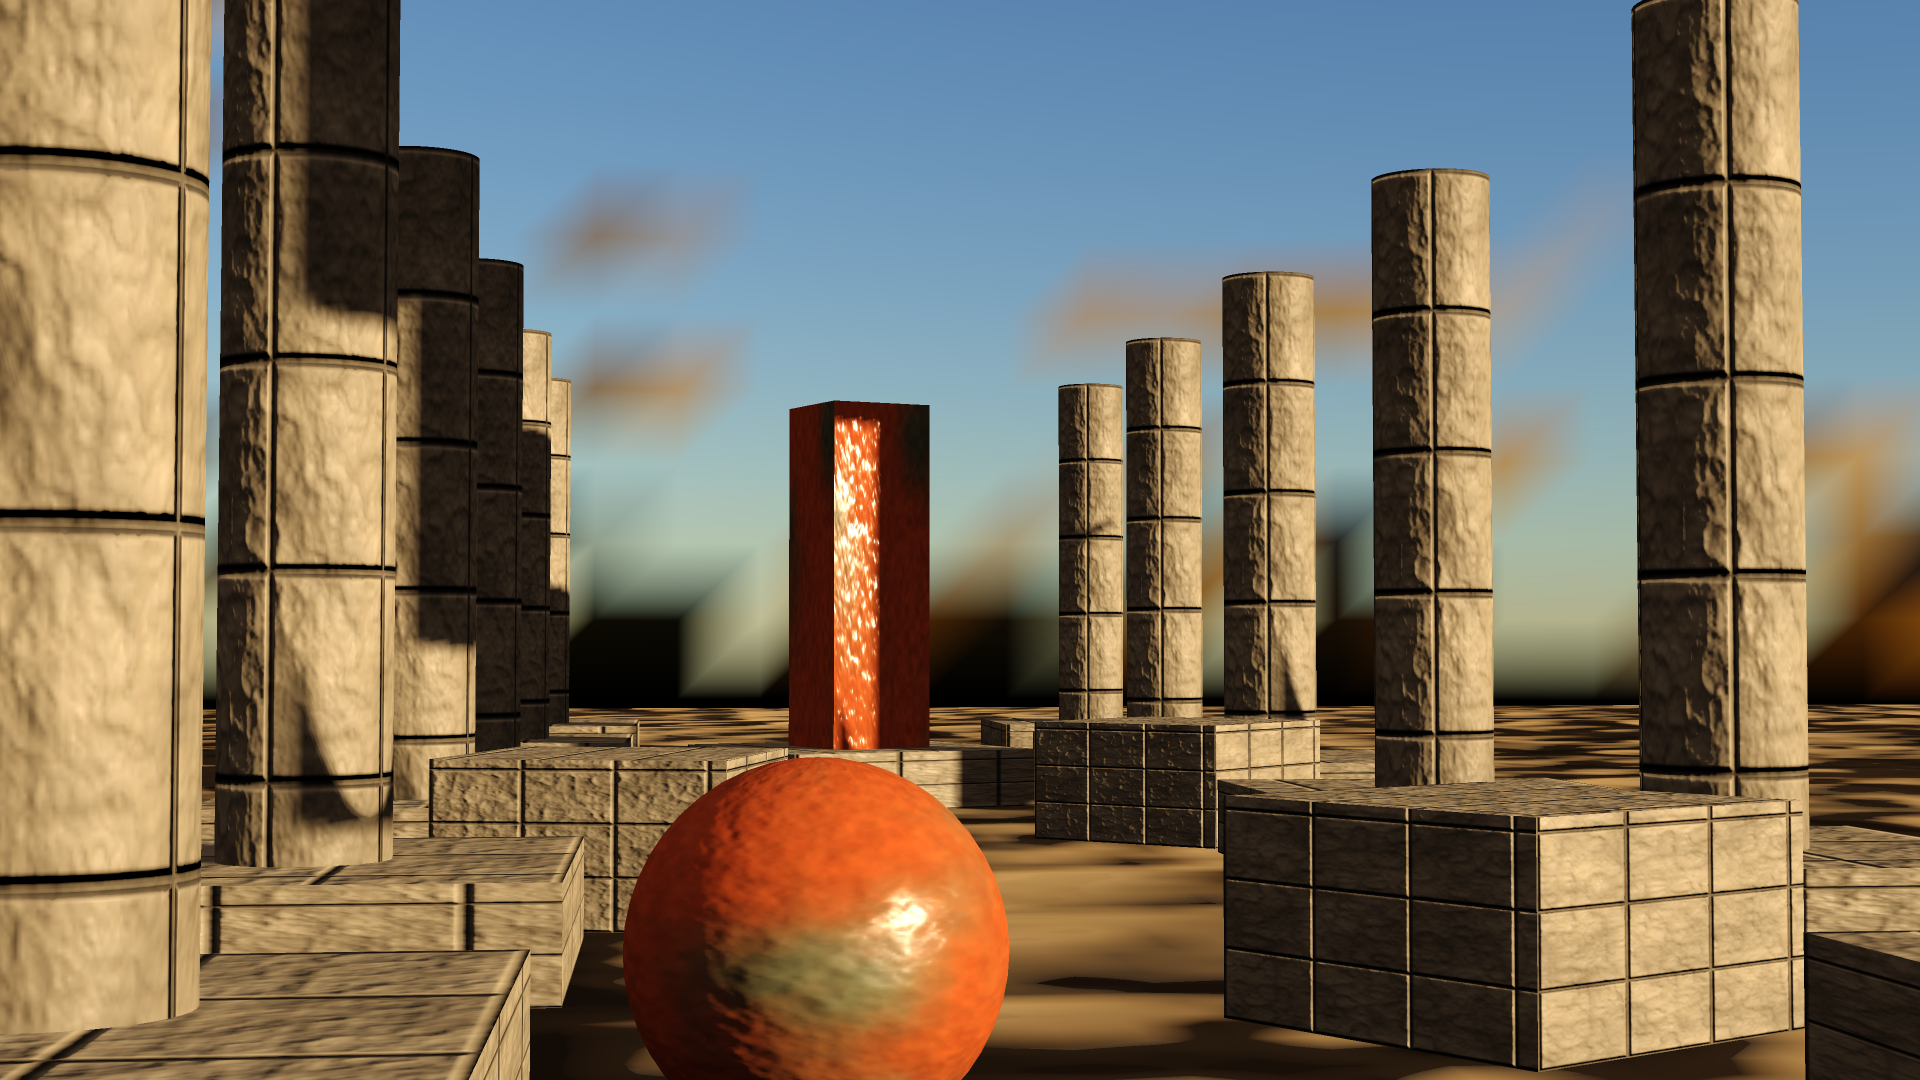
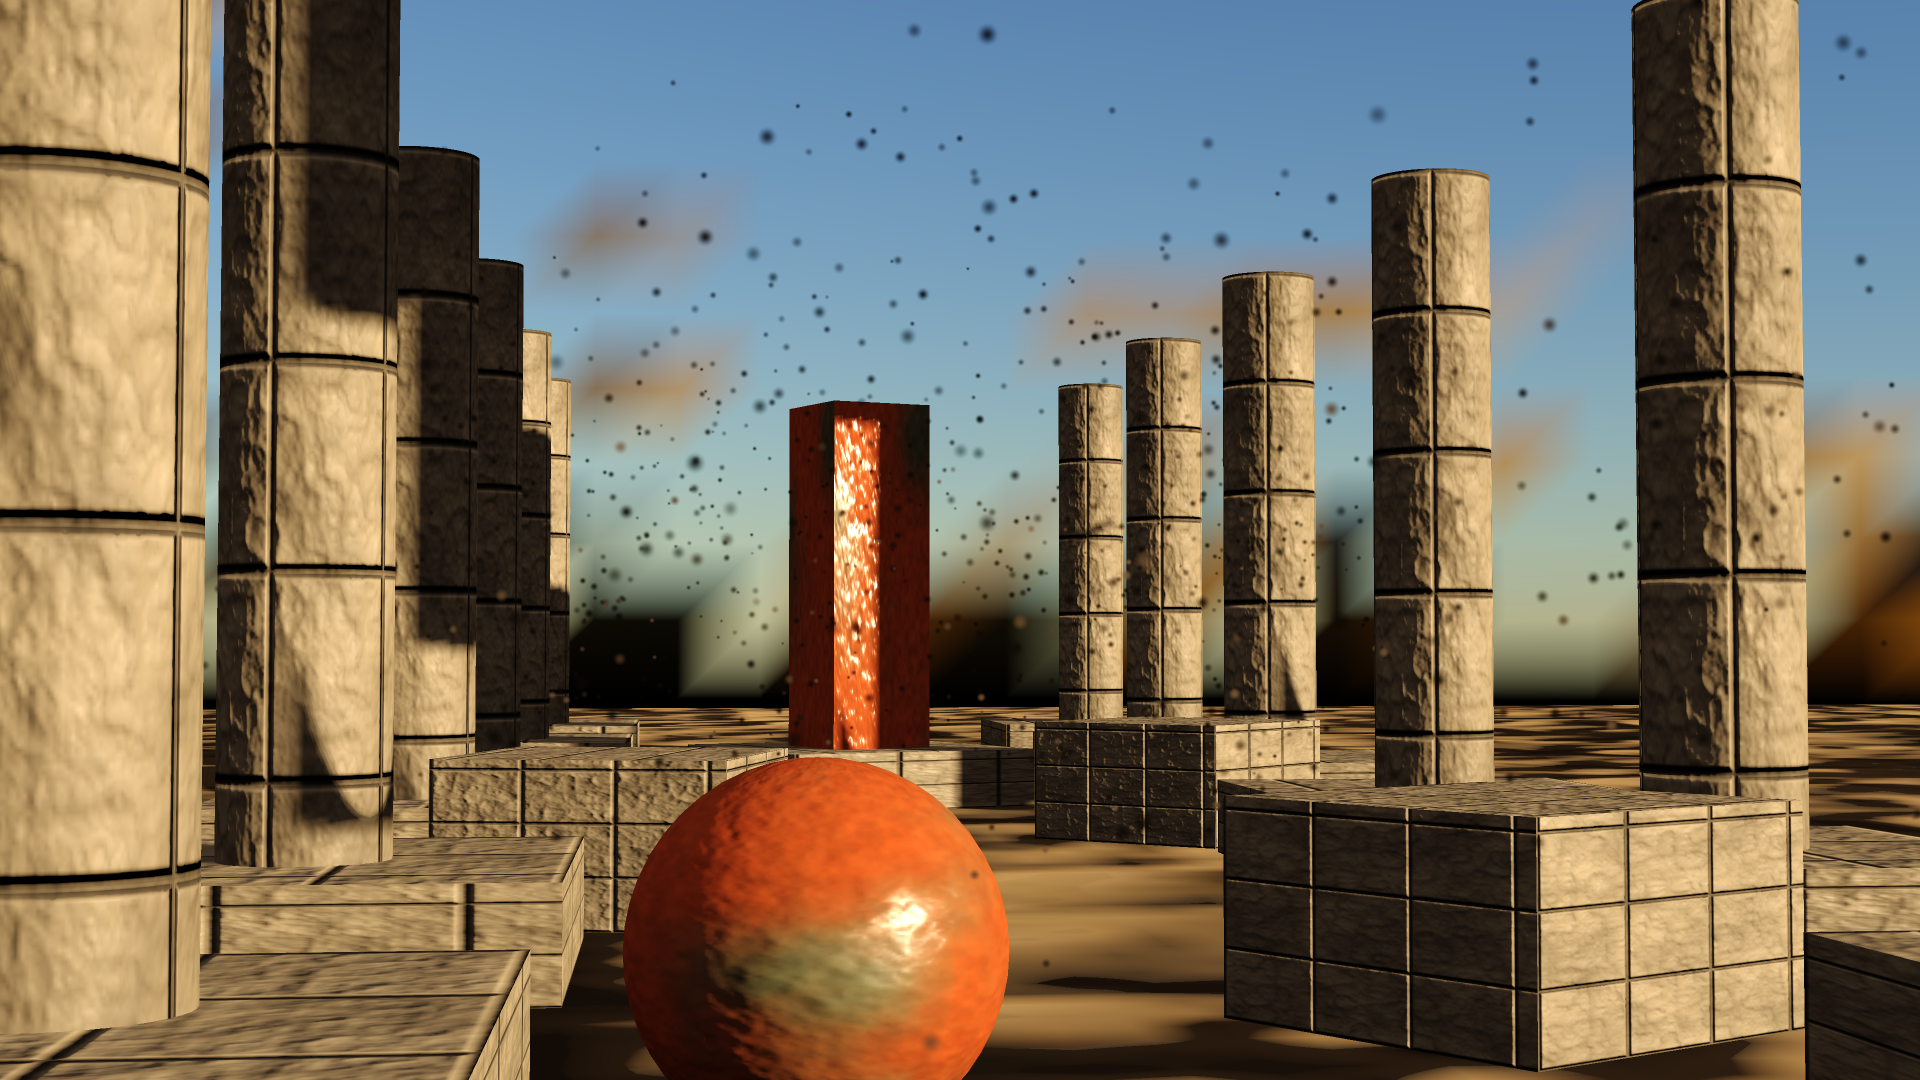
WIP snapshot: 16 file(s) in flight
Automatic interval snapshot taken while M11.c is being worked by a workflow, so
that an interrupted connection costs at most one interval. Touched: docs/design/beauty-shot.md docs/design/images/m11c-beauty-shot-linear.png docs/design/images/m11c-beauty-shot.manifest docs/design/images/m11c-beauty-shot.png docs/design/images/virtual-geometry-shaded.png docs/design/virtual-geometry.md

Claude-Session: https://claude.ai/code/session_01BvoHZ8J6AQ7ZmHGdYnuGC5

diff --git a/tests/render/test_virtual_geometry_shaded.cpp b/tests/render/test_virtual_geometry_shaded.cpp
@@ -36,12 +36,14 @@
 // than two 8-bit steps, and a texel may differ AT ALL only where the reference itself has a
 // high-contrast four-neighbour. `differing_off_edge` must be zero.
 //
-// IT WAS MEASURED RATHER THAN CHOSEN. This frame was rendered twice on the same machine, in two
-// separate processes, and compared: the two runs are BIT-IDENTICAL — 0 of 57,600 texels differ,
-// maximum channel delta 0. That is the property `render.frames` already asserts about the M3
-// artefact for the same reason, and it is why the tolerance above is headroom for another
-// implementation rather than headroom for this one. A tolerance chosen as a round number, without
-// measuring what actually moves, is a tolerance that hides the regression it was sized for.
+// IT WAS MEASURED RATHER THAN CHOSEN. This frame was rendered THREE times on this machine, in
+// three separate processes — the run that wrote the reference and two that compared against it —
+// and all three are BIT-IDENTICAL: 0 of 57,600 texels differ, maximum channel delta 0. The
+// reference's own derived edge budget is 8,521 texels and NONE of them was needed. That is the
+// property `render.frames` already asserts about the M3 artefact for the same reason, and it is
+// why the tolerance above is headroom for another implementation rather than for this one. A
+// tolerance chosen as a round number, without measuring what actually moves, is a tolerance that
+// hides the regression it was sized for.
 //
 // ================================================================================================
 // THE PICTURE IS OF TWO ROWS, AND THE SECOND CASE IS WHY THE FIRST IS EVIDENCE ABOUT BOTH
@@ -51,6 +53,40 @@
 // page boundaries, a page per receiver picked from its projected texel density, a physical page
 // cache that allocates and evicts, pages rasterised once from the scene's level-0 clusters, and
 // every lookup walked through the fallback chain. `shade.h` carries that argument in full.
+//
+// ================================================================================================
+// PROVED RED BY BREAKING THE SUBJECT, TWICE — ONCE PER ROW
+// ================================================================================================
+//
+// A golden-image case that has only ever been seen green is a golden-image case nobody has shown
+// can fail, and breaking the COMPARISON or the reference's PATH proves only that a file is read.
+// Both mutations below break the thing the picture is OF. Measured against `build/m11c-final` on
+// an RTX 5060; each was restored afterwards and the suite re-run green.
+//
+//   `virtual-geometry` — delete `out.clusters[index].child_count = out.groups[from].member_count;`
+//   from `Finaliser::emit_hierarchy()` in `src/rendering/virtual_geometry/src/build.cpp`. Every
+//   cooked cluster then reports zero children, `clusterTooCoarse(...) && cluster.childCount > 0`
+//   in `vg_traversal.slang` is never true, and THE HIERARCHY STOPS DESCENDING: the device draws
+//   each instance's coarsest cluster and nothing under it. The cook still succeeds and validation
+//   is still clean. Clusters decoded 3,324 -> 246, coverage 57,600 -> 55,322, and 46,257 of 57,600
+//   texels move — 80.31% of the frame, 38,878 of them off any high-contrast edge, worst channel
+//   delta 188 of 255. Three assertions of the first case go red.
+//
+//   `virtual-shadows` — delete `entry.state = PageState::Resident;` from
+//   `ShadowPageCache::record_render` in `src/rendering/shadows/src/cache.cpp`. A page is then
+//   rasterised and never MARKED resident, so all 27,095 sun-facing lookups fall through the
+//   fallback chain: shadowed pixels 24,649 -> 0, and 24,578 of 57,600 texels move — 42.67%,
+//   20,089 of them off-edge, worst channel delta 163. Four assertions go red, and the first of
+//   them is `shade_report.shadowed > 0`, which is the counter that exists so a shadow cannot
+//   vanish quietly.
+//
+// This is the criterion's own declared mutation — `tools/roadmap/milestones/m11c.toml`,
+// `[criterion.falsifies]` under `virtual-geometry-image` — so the prover re-runs the first of the
+// two rather than trusting this comment.
+//
+// ================================================================================================
+// THE PICTURE IS OF TWO ROWS, AND THE SECOND CASE IS WHY THE FIRST IS EVIDENCE ABOUT BOTH (CONT.)
+// ================================================================================================
 //
 // So the second case starves the page cache to a single slot. Every receiver is then refused a
 // page, the chain falls all the way to `Unshadowed`, and the frame CHANGES — measurably, and the

diff --git a/tests/render/test_sky_times_of_day.cpp b/tests/render/test_sky_times_of_day.cpp
@@ -25,8 +25,8 @@
 // reddening a long path at dawn, the ozone layer holding the zenith blue after the sun has gone,
 // multiple scattering carrying a third of the horizon at noon and none of it at midnight. One
 // still frame is consistent with a painted gradient. Four at +0.62, +61.44, -5.64 and -14.56
-// degrees of sun elevation are not — the numbers `solve_celestial()` answered and every run prints
-// — and each case here asserts that its frame matches ITS OWN reference and
+// degrees of sun elevation are not. Those are the numbers `solve_celestial()` answered and every
+// run of this suite prints them. Each case asserts that its frame matches ITS OWN reference and
 // matches NONE OF THE OTHER THREE — so a renderer that had quietly stopped responding to the sun
 // would produce four frames that agree, and agreement is what these cases fail on.
 //
@@ -117,6 +117,15 @@
 //   * THE FOUR ARE THE SAME PICTURE. Each case compares its frame against the other three
 //     references and requires a large mean absolute difference, which is the "response to sun
 //     elevation" claim made falsifiable rather than described.
+//
+// AND A FOURTH THIS SUITE CANNOT REFUSE, SAID OUT LOUD BECAUSE IT IS THE CRITERION'S TO CATCH.
+// Every suite under tests/render/ SKIPS rather than fails with no device — deliberately, because
+// most continuous-integration machines have no GPU and a suite that failed there is a suite
+// somebody disables (device.h). Measured on this host with `VK_DRIVER_FILES=/dev/null`: this suite
+// prints "no Vulkan device on this machine" four times, reports 5 passed over ZERO ASSERTIONS and
+// exits 0. An exit code therefore cannot tell a picture from an absent one, so `m11c:sky-as-an-
+// image` runs the suite with `-V` and requires the four `sun elevation` lines — written only after
+// a frame has been composed and read back — to be in the output.
 //
 // ================================================================================================
 // THE MUTATIONS THIS SUITE WAS PROVED RED BY

diff --git a/samples/12-beauty/shot.cpp b/samples/12-beauty/shot.cpp
@@ -132,8 +132,6 @@ void read_instance(Shot& shot, std::string_view& rest) {
     shot.instances.push_back(instance);
 }
 
-}  // namespace
-
 /// Does the scene's camera and grade agree with `embers.h`'s copy of them?
 ///
 /// A TOLERANCE OF ONE PART IN TEN THOUSAND rather than equality: both sides are decimal literals
@@ -168,6 +166,8 @@ void read_instance(Shot& shot, std::string_view& rest) {
               "`render.vfx` can photograph the air from where this shot sees it. Move both.";
     return false;
 }
+
+}  // namespace
 
 Expected<Shot, Error> Shot::read(const char* path, std::string& problem) {
     Allocator& memory = system_allocator(MemoryDomain::Assets);
@@ -265,8 +265,8 @@ Expected<Shot, Error> Shot::read(const char* path, std::string& problem) {
     // check that makes them one number: move the camera in the scene file and the capture refuses,
     // naming the header to move it in as well.
     if (!camera_matches_the_air(shot, problem)) {
-        return make_unexpected(Error{ErrorCode::InvalidArgument, "camera disagrees with embers.h",
-                                     0});
+        return make_unexpected(
+            Error{ErrorCode::InvalidArgument, "camera disagrees with embers.h", 0});
     }
     return shot;
 }

diff --git a/samples/12-beauty/main.cpp b/samples/12-beauty/main.cpp
@@ -180,6 +180,8 @@ void print_report(const Shot& shot, const ShotReport& report) {
                 static_cast<double>(report.sky_irradiance.z), report.sky_ms);
     std::printf("frame         %u passes declared, %u post stages, %ux supersampled\n",
                 report.frame_passes, report.post_stages, report.supersample);
+    std::printf("air           %u mote(s) in %u draw(s), %u dropped\n", report.particles,
+                report.particle_draws, report.particles_dropped);
     std::printf("cost          build %.1f ms, submit %.2f ms\n", report.build_ms, report.submit_ms);
     std::printf("validation    %u error(s)\n", report.validation_errors);
 }

diff --git a/samples/12-beauty/stage.cpp b/samples/12-beauty/stage.cpp
@@ -1865,8 +1865,8 @@ Status Stage::create_frame() noexcept {
     // Published against `kShotEye`, which is the point the geometry was baked relative to. The
     // motes and the colonnade are then in ONE space, and the turntable can orbit without
     // republishing.
-    if (Status made = device_->air.initialize(device, device_->pipelines,
-                                              cy::sample::beauty::kEmberRing);
+    if (Status made =
+            device_->air.initialize(device, device_->pipelines, cy::sample::beauty::kEmberRing);
         !made) {
         return made;
     }

diff --git a/src/rendering/virtual_geometry/src/build.cpp b/src/rendering/virtual_geometry/src/build.cpp
@@ -980,6 +980,7 @@ Status Finaliser::emit_hierarchy() noexcept {
             continue;
         }
         out.clusters[index].first_child = group_child_range_first[from];
+        out.clusters[index].child_count = out.groups[from].member_count;
     }
     return ok();
 }

diff --git a/docs/design/beauty-shot.md b/docs/design/beauty-shot.md
@@ -87,9 +87,29 @@ this whole record dishonest."* So:
   what oxidised copper is, and would be the same partial metal if it were gold.
 - **The geometry is procedural and there is no mesh asset.** Thirty-one instances of six primitives,
   4 334 triangles. Nothing here was modelled or scanned.
-- **There are no particles.** `vfx-system` is Working rather than Complete and
-  `src/vfx/README.md`'s four recorded absences are why; a shot with sprites in it would have made
-  none of them false.
+- **The air is particles, and the effect is authored in C++ rather than as content.** Three ember
+  emitters drift up the courtyard: `samples/12-beauty/embers.cpp` places and wires the spawn,
+  initialise and update graphs node by node, `cy::vfx`'s shipping compiler cooks them,
+  `SimulationWorld` settles the field for six seconds at the effect's own Ambient rate, and
+  `cy::rendering::particles::ParticleRenderer` draws the whole field in ONE draw inside the frame's
+  own `Transparent` stage — so the motes are depth-tested against the colonnade and graded by the
+  same exposure and the same tone curve as the stone. The manifest publishes the count the
+  RENDERER reported.
+  **What that does not prove is an authoring path.** Everything else in this shot is a file; the air
+  is not, because **there is no on-disk VFX asset format in this tree** — `VfxSystemAsset` is built
+  by a caller and cooked by `compile_system`, nothing reads one from a file and nothing writes one —
+  and `src/vfx/README.md`'s fourth recorded absence, no VFX graph editor, is the same fact from the
+  authoring side. The effect is authored exactly the way `src/vfx/tests/effects.cpp` authors the
+  spark plume.
+  **And the motes have no texture and no soft depth fade.** `ParticleRenderer`'s sprite is a radial
+  falloff computed in the fragment shader; there is no atlas and no depth-fade, which that module
+  records as its own absence.
+  **This is the half of `vfx-system` a picture can show, and something asserts it.**
+  `render.vfx`'s `particles are in the assembled frame` renders the same field through the same
+  camera at 480x270, compares it against `tests/render/references/beauty_shot_air.png`, and asserts
+  the difference between that frame and the identical frame with the ring uploaded empty — 4 035 of
+  129 600 texels, 3.11% of the frame, worst channel 112. `integration.vfx`'s case of the same name
+  projects every published record through the artefact's camera on a machine with no GPU at all.
 - **`draws 0` in the manifest is correct and is worth reading carefully.** The frame's own draw list
   is empty: this program draws its geometry inside the frame through `FrameSinks::passes`, which is
   the seam `ForwardFrame` documents — *"ForwardFrame knows the frame STRUCTURE and the caller knows

diff --git a/src/vfx/README.md b/src/vfx/README.md
@@ -156,6 +156,24 @@ Engine output, read back off a Vulkan device with validation on, written by `ren
   the same frame, the same camera, the same seed; the one difference is what the budget controller
   was told VFX cost.
 
+### And one of them is not this module's own picture
+
+`docs/design/images/m11c-beauty-shot.png` — M11.c's closing artefact — has three ember emitters
+drifting up its courtyard, and that is this row in the frame somebody actually looks at. The effect
+is `samples/12-beauty/embers.cpp`, authored the way `src/vfx/tests/effects.cpp` authors the spark
+plume and for the same reason: **there is no on-disk VFX asset format in this tree**, so the air is
+the one thing in that shot that is not content, and the shot's provenance says so.
+
+**Those three pictures above are written by a recipe and compared against nothing. The beauty
+shot's air is not.** `render.vfx`'s `particles are in the assembled frame` renders the same cooked
+system through the same camera at 480x270 and compares it against
+`tests/render/references/beauty_shot_air.png`; the case also renders the identical frame with the
+ring uploaded EMPTY and asserts how far apart the two are — 4 035 of 129 600 texels, 3.11% of the
+frame, mean |delta| 5.8/255 where they differ, worst channel 112 — so a field that got weaker fails
+as loudly as one that vanished. `integration.vfx`'s case of the same name projects every published
+record through the artefact's camera on a machine with no GPU at all, and counts the ones inside the
+frustum: 901 of 996.
+
 ## Using it, in the order the pieces expect
 
 ```cpp

diff --git a/docs/design/virtual-geometry.md b/docs/design/virtual-geometry.md
@@ -27,9 +27,20 @@ to show it in, so the question is never "draw it all" but "which clusters, at wh
 
 ![The frame](images/virtual-geometry-shaded.png)
 
-*Resolved world normals under one light. Fluted left wall, three displaced shells on the ceiling, a
+*The shaded result, not a debug view. Fluted left wall, three displaced shells on the ceiling, a
 corrugated back wall, a striped floor — all of it real geometry rather than a normal map, which is
-what makes the triangle count above meaningful.*
+what makes the triangle count above meaningful. The sun is shadowed through `virtual-shadows`' own
+page cache: 132 pages allocated and rasterised for this frame, 535,027 shadow texels written, and
+412,647 of the 921,593 covered pixels in shadow with 20,061 lit and no lookup falling back.*
+
+**This picture is asserted, not merely published.** `render.virtual_geometry_shaded` renders the
+same frame — the same scene, the same shot, through the same `shade_frame()` this capture calls —
+at 320x180 and compares it against `tests/render/references/virtual_geometry_shaded.png` within
+`tests/render/golden.h`'s derived tolerance. On this machine the frame is bit-identical across
+processes, so the case asserts `differing == 0` as well as the tolerance. A second case starves
+the shadow page cache to one physical slot and asserts the frame CHANGES, which is what stops a
+reference that had quietly stopped sampling the shadow map from passing forever. Regenerating the
+picture above with `just capture-virtual-geometry` does not regenerate that reference.
 
 ## The hierarchy choosing
 

diff --git a/samples/12-beauty/README.md b/samples/12-beauty/README.md
@@ -75,5 +75,11 @@ image rather than an obvious one:
 
 The full list is in the provenance, and the short version is: no anti-aliasing stage (the frame is
 supersampled and the manifest says three post stages, none of them temporal), no global illumination
-pass, no ambient occlusion pass, no particles, procedural geometry, and a normal map and an occlusion
+pass, no ambient occlusion pass, procedural geometry, and a normal map and an occlusion
 channel sampled by the FRAME because the compiled-material closure vocabulary has no term for either.
+
+**The air is the one thing in this frame that is not content.** Three ember emitters are authored in
+`embers.cpp` — node by node, on `cy::vfx`'s shipping node library and through its shipping compiler
+— because there is no on-disk VFX asset format in this tree to author them into, and no VFX graph
+editor to author them with. What the field proves is the runtime, not an authoring path, and the
+provenance says so where the rest of this list is.

diff --git a/tests/render/README.md b/tests/render/README.md
@@ -123,6 +123,13 @@ rather than inferred; every frame must hold more than 200 distinct colours acros
 above 40, because a flat frame compares perfectly against a flat reference; and the cross-time
 comparison above.
 
+**A fourth way this suite cannot refuse, and the criterion does.** Every suite here skips rather
+than fails with no device, deliberately — with `VK_DRIVER_FILES=/dev/null` this one prints "no
+Vulkan device on this machine" four times, reports 5 passed over **zero assertions**, and exits 0.
+An exit code cannot tell a picture from an absent one, so `m11c:sky-as-an-image` runs the suite
+with `-V` and requires the four `sun elevation` lines, which are written only after a frame has
+been composed and read back.
+
 Regeneration works as `render.golden`'s does and for the same reason — `CY_RENDER_UPDATE_GOLDEN=1
 ctest -R render.sky_times_of_day` writes the four references and then **fails**, naming what it
 wrote.
